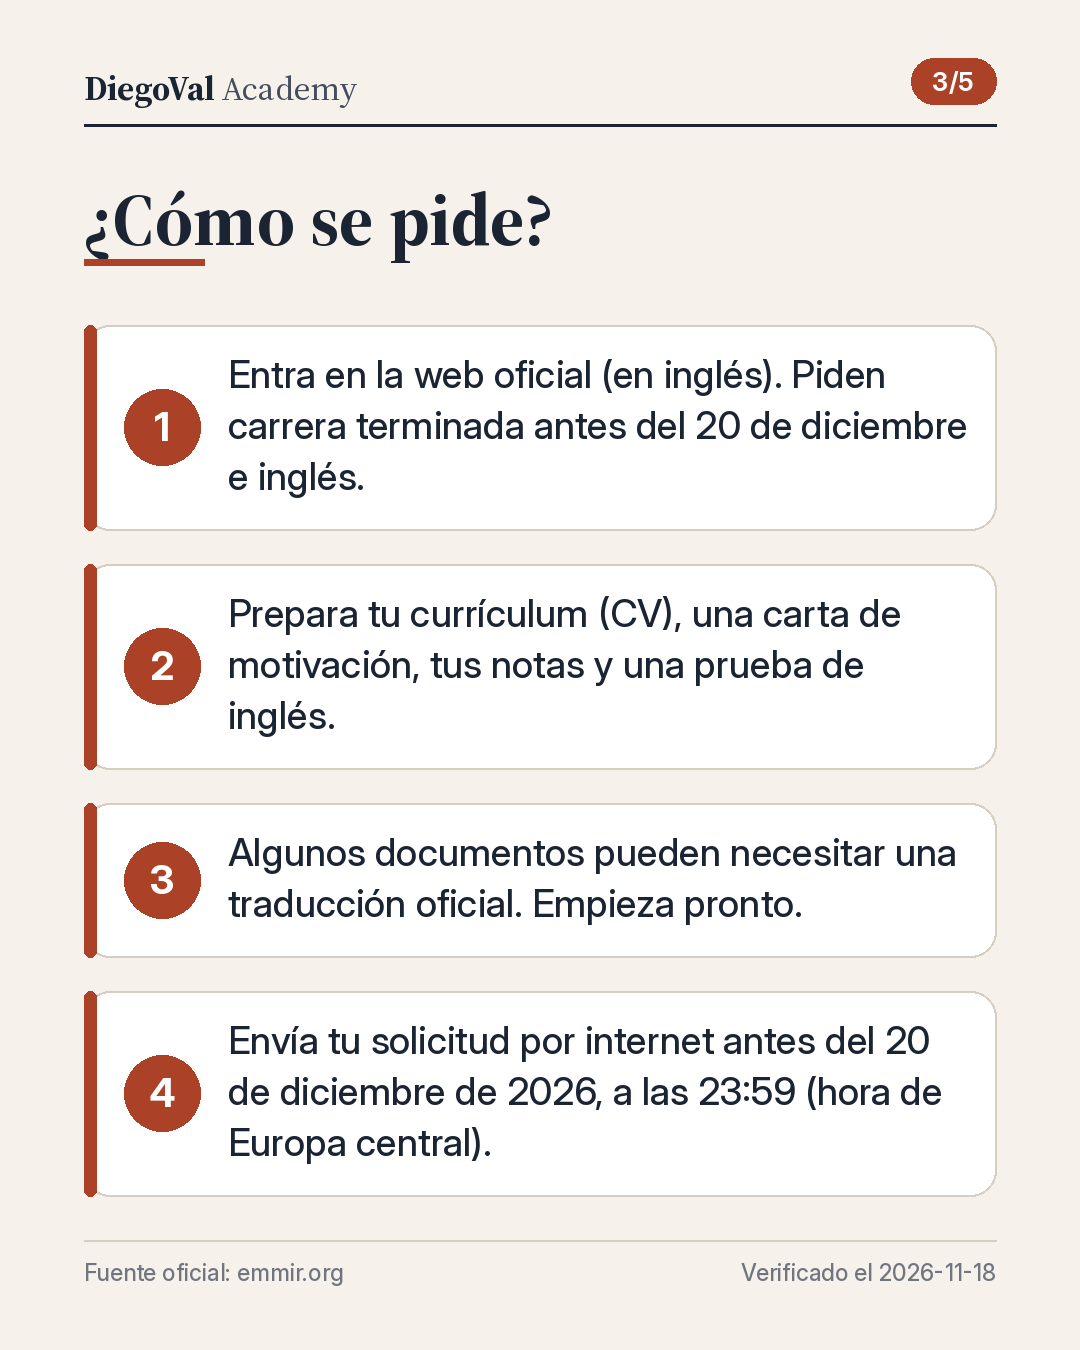
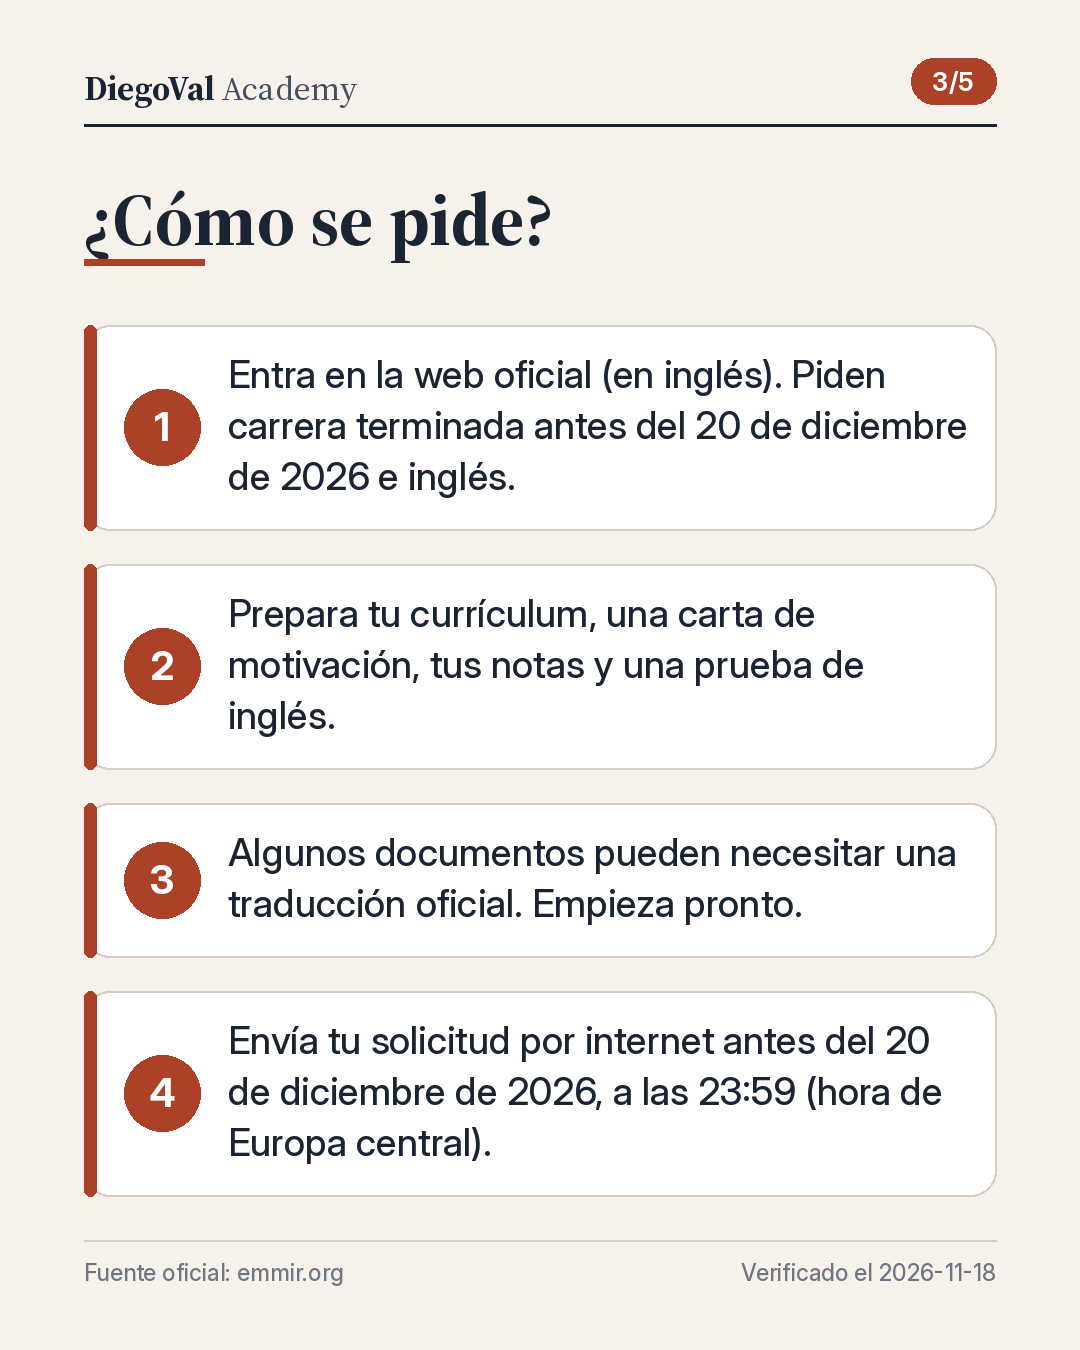
2026-11-18_miercoles_beca-erasmus-mundus-migracion: segunda ronda de correcciones
Claude-Session: https://claude.ai/code/session_01HRCw384kNZuFJezs1FHcDA

Changed region(s): [[0.55, 0.4356, 0.825, 0.4667], [0.2139, 0.3422, 0.4889, 0.3733]]

diff --git a/posts/2026-11-18_miercoles_beca-erasmus-mundus-migracion/caption.md b/posts/2026-11-18_miercoles_beca-erasmus-mundus-migracion/caption.md
@@ -1,18 +1,18 @@
-¿Quieres un máster en Europa con beca y te interesa la migración? 🌍 Hay uno de dos años sobre migración y relaciones entre culturas. Está abierto ahora.
+¿Quieres un máster en Europa con beca y te interesa la migración? 🌍 Hay uno de dos años, abierto ahora.
 
 En corto:
 • Qué es: un máster Erasmus Mundus (programa de la Unión Europea para estudiar en varios países). Nombre oficial en inglés: European Master in Migration and Intercultural Relations.
-• Beca: 1 400 euros al mes durante 24 meses, seguro médico y matrícula. No cubre viaje, visado ni vacunas.
-• Quién: quien termine la carrera antes del plazo y demuestre inglés. No sirve si ya tuviste una beca Erasmus+. La web no limita la nacionalidad.
+• Beca: 1 400 euros al mes durante 24 meses, seguro médico y matrícula (no viaje ni visado).
+• Quién: para pedir la beca, tener la carrera terminada antes del 20 de diciembre de 2026 y demostrar inglés. No puedes pedirla si ya tuviste una beca Erasmus+ (becas europeas para estudiar fuera). La web no limita la nacionalidad.
 • Plazo de la beca: 20 de diciembre de 2026, a las 23:59 (hora de Europa central).
 
-Por qué es conocida: lleva 14 ediciones y la Unión Europea le dio unos 4,6 millones de euros para otros cinco años.
+Por qué es conocida: edición 14; la Unión Europea le dio unos 4,6 millones de euros para otros cinco años.
 
-Lo que pocos explican: hay pocas becas. Si pagas tú (4 500 euros por semestre), puedes pedir plaza hasta el 15 de julio de 2027 como máximo, o antes si se llenan.
+Lo que pocos explican: hay pocas plazas con beca. Si pagas tú (4 500 euros por semestre), puedes pedir plaza hasta el 15 de julio de 2027 como máximo.
 
 Cómo empezar:
 1. Lee los requisitos en la web oficial (en inglés).
-2. Prepara currículum, carta de motivación, notas y prueba de inglés.
+2. Prepara currículum, carta de motivación, notas e inglés.
 3. Envía la solicitud por internet antes del 20 de diciembre.
 
 Oficial: https://www.emmir.org/applications

diff --git a/posts/2026-11-18_miercoles_beca-erasmus-mundus-migracion/validation.md b/posts/2026-11-18_miercoles_beca-erasmus-mundus-migracion/validation.md
@@ -1,6 +1,6 @@
 # Validación — 2026-11-18_miercoles_beca-erasmus-mundus-migracion
 
-Ejecutado: 2026-11-18T07:10:44+01:00
+Ejecutado: 2026-11-18T07:11:41+01:00
 Decisión: **BLOQUEADA: no publicar**
 
 | Estado | Comprobación | Detalle |
@@ -10,7 +10,7 @@ Decisión: **BLOQUEADA: no publicar**
 | PASS | Imagen | 1080x1350 PNG, 1 archivo (+5 diapositivas de carrusel, ignoradas) |
 | PASS | Canal Buffer | DiegoVal Academy (6ae0bdf22f1f5ed648eb92f9) |
 | PASS | Verificación del día | 2026-11-18 |
-| PASS | Longitud del texto | 1262/1300 caracteres |
+| PASS | Longitud del texto | 1254/1300 caracteres |
 | PASS | Fecha visible en el texto | Verificado el: 2026-11-18 |
 | PASS | Marcadores pendientes | ninguno |
 | PASS | Enlaces documentados en sources.md | 1 enlaces |

diff --git a/posts/2026-11-18_miercoles_beca-erasmus-mundus-migracion/validation_instagram.md b/posts/2026-11-18_miercoles_beca-erasmus-mundus-migracion/validation_instagram.md
@@ -1,6 +1,6 @@
 # Validación Instagram — 2026-11-18_miercoles_beca-erasmus-mundus-migracion
 
-Ejecutado: 2026-11-18T07:10:44+01:00
+Ejecutado: 2026-11-18T07:11:42+01:00
 Decisión: **BLOQUEADA: no publicar**
 
 | Estado | Comprobación | Detalle |
@@ -11,7 +11,7 @@ Decisión: **BLOQUEADA: no publicar**
 | PASS | Imágenes actualizadas | generadas desde el carousel.json actual |
 | PASS | Imágenes sin URL completa | sólo dominios |
 | PASS | Fecha de verificación | 2026-11-18 |
-| PASS | Caption breve | 450 caracteres (máx. 1000) |
+| PASS | Caption breve | 579 caracteres (máx. 1000) |
 | PASS | Hashtags | 4 (rango 3-8) |
 | PASS | Verificado el | 2026-11-18 |
 | PASS | Lenguaje sencillo: siglas (texto) | todas explicadas o ninguna |

diff --git a/posts/2026-11-18_miercoles_beca-erasmus-mundus-migracion/caption_instagram.md b/posts/2026-11-18_miercoles_beca-erasmus-mundus-migracion/caption_instagram.md
@@ -3,8 +3,10 @@
 Hay un máster europeo de 2 años sobre migración y relaciones entre culturas. Está abierto ahora.
 
 ✅ La beca da 1 400 euros al mes durante 24 meses
-✅ Piden título de carrera e inglés
+✅ Piden carrera terminada antes del 20 de diciembre de 2026 e inglés
 ✅ Plazo para la beca: 20 de diciembre de 2026
+
+No pueden pedirla quienes ya tuvieron una beca Erasmus+ (becas europeas para estudiar fuera).
 
 Esta semana: lee los requisitos en la web oficial y revisa tus documentos. Web oficial, en inglés: emmir.org
 
